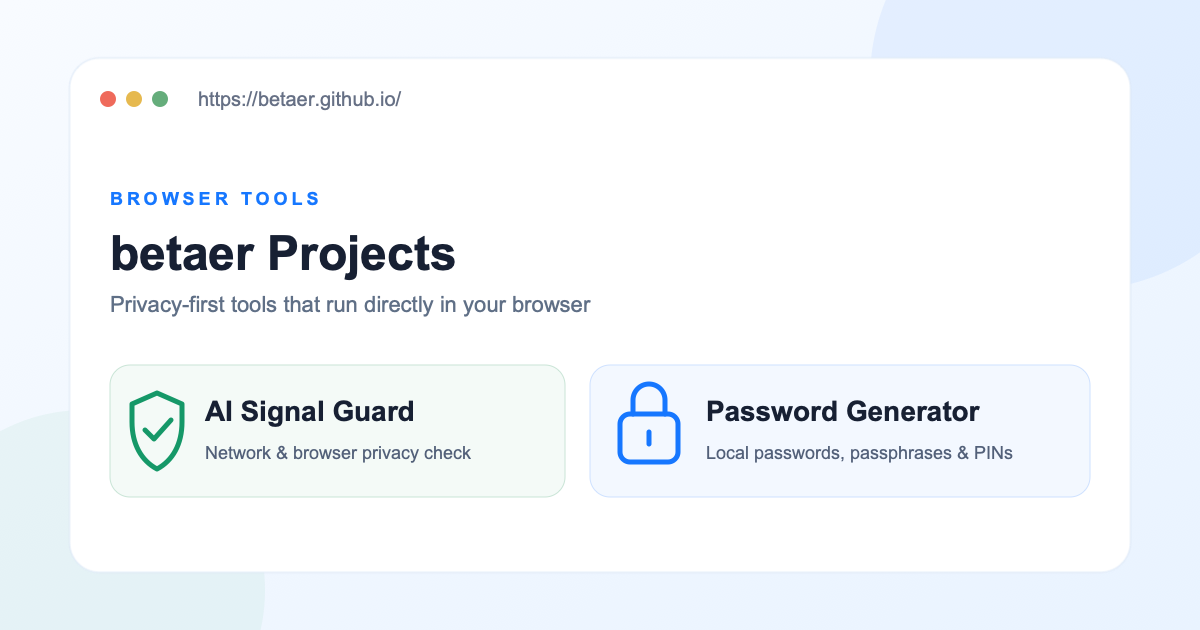
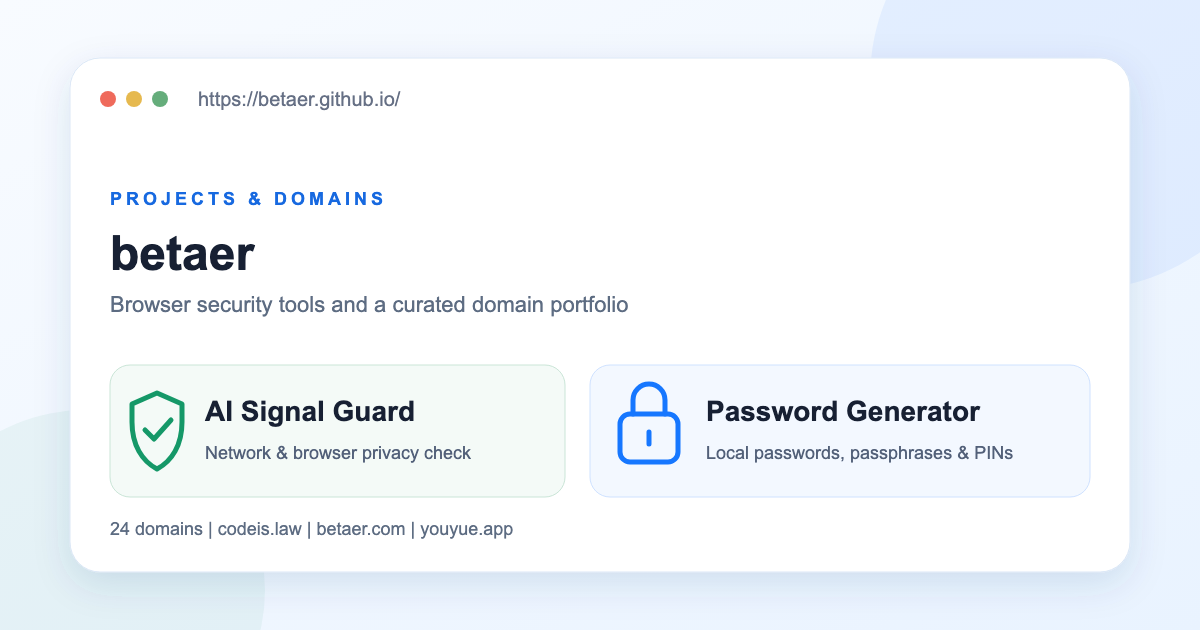
docs: refresh homepage social identity

diff --git a/README.md b/README.md
@@ -1,1 +1,27 @@
-# Domain Name List
+# betaer Projects & Domains
+
+betaer 的公开项目与域名主页，使用纯静态 HTML、CSS 和 JSON-LD 构建。
+
+[访问主页](https://betaer.github.io/) | [AI Signal Guard](https://betaer.github.io/AiSignalGuard/) | [Password Generator](https://betaer.github.io/password-generator/)
+
+## 页面内容
+
+- AI Signal Guard：网络、浏览器隐私与环境一致性检测。
+- Password Generator：浏览器本地密码、记忆短语与 PIN 生成。
+- Domain Portfolio：betaer 管理的域名名称与含义。
+
+## 本地预览
+
+```bash
+python3 -m http.server 8765 --bind 127.0.0.1
+```
+
+打开 `http://127.0.0.1:8765/`。
+
+## 验证
+
+```bash
+node --test tests/*.test.mjs
+```
+
+测试覆盖根页面 SEO、JSON-LD、项目链接、域名列表、抓取文件和社交图片尺寸。
